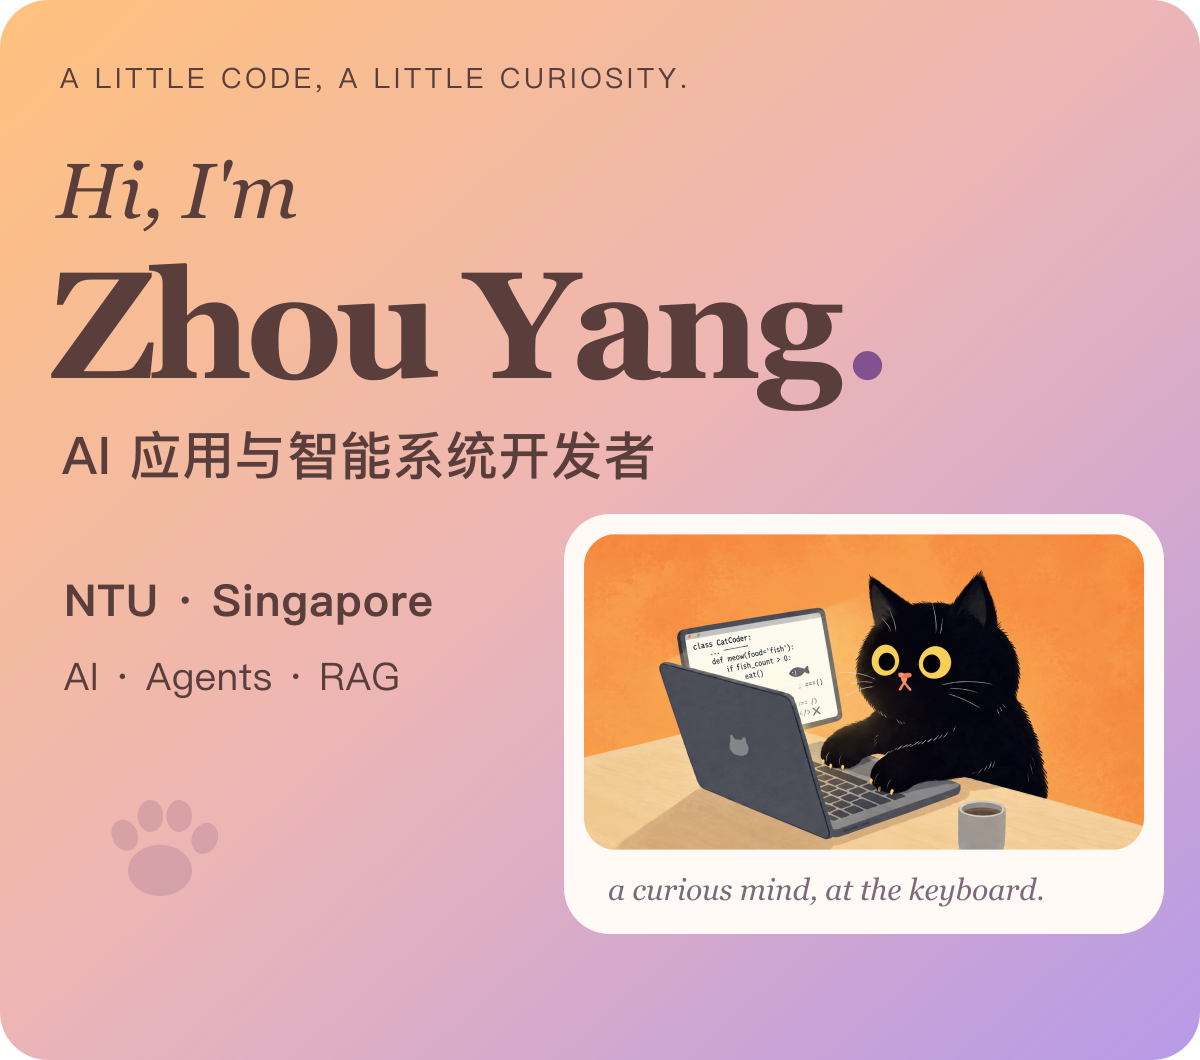
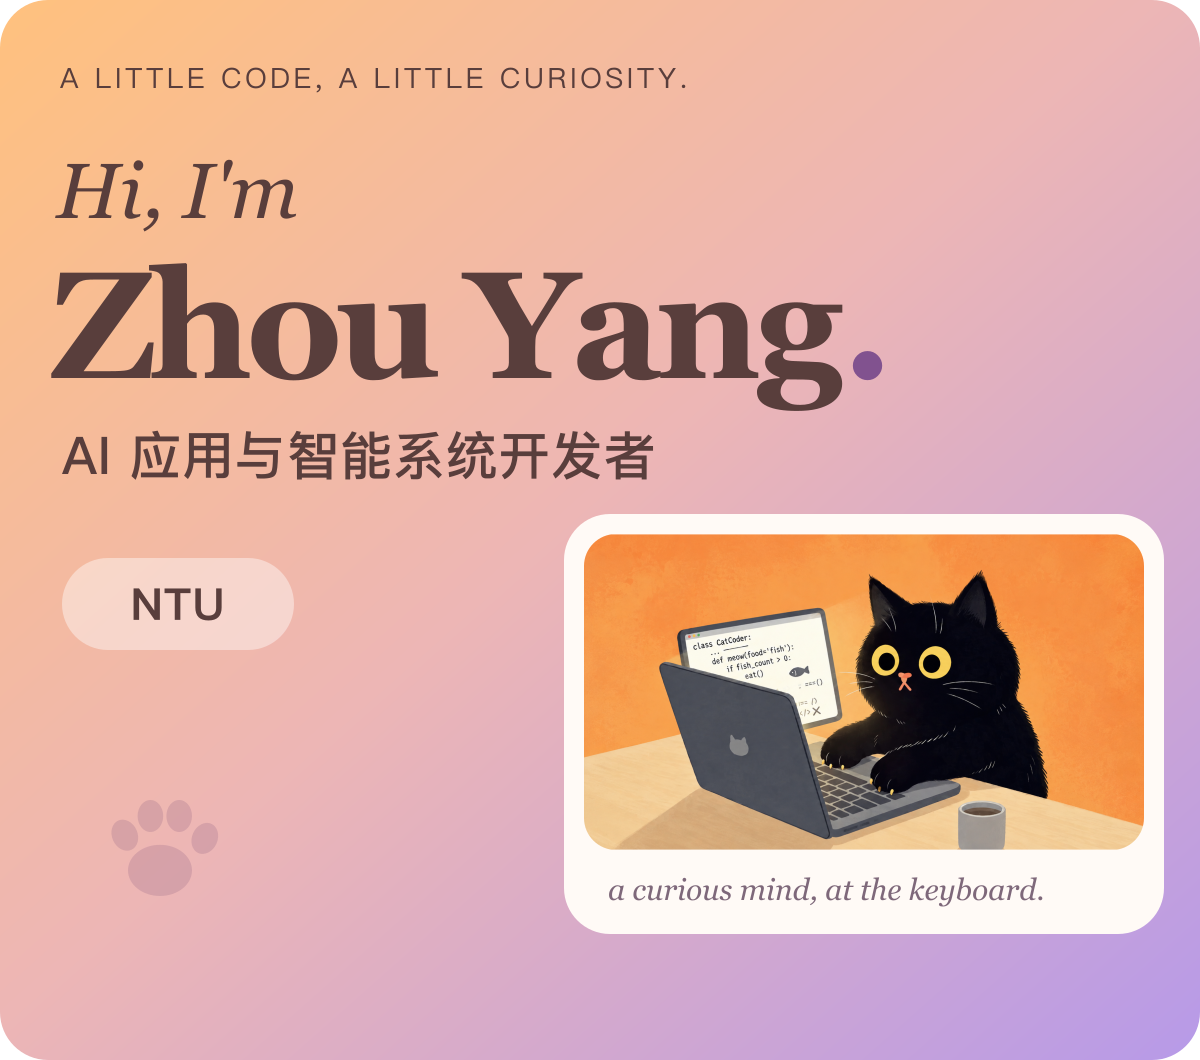
Show DeerFlow Contributor identity and simplify centered NTU badge

Changed region(s): [[0.0308, 0.5292, 0.37, 0.6538]]

diff --git a/README.md b/README.md
@@ -1,7 +1,7 @@
 <a href="https://zhouyang-lab.pages.dev/">
   <picture>
     <source media="(max-width: 600px)" srcset="./assets/hero-mobile.png" />
-    <img src="./assets/hero.png" width="100%" alt="Hi, I'm Zhou Yang — AI 应用与智能系统开发者. NTU, Singapore. Warm orange and lavender with the black cat from my personal website." />
+    <img src="./assets/hero.png" width="100%" alt="Hi, I'm Zhou Yang — AI 应用与智能系统开发者. NTU. Warm orange and lavender with the black cat from my personal website." />
   </picture>
 </a>
 
@@ -20,7 +20,7 @@ Student at **Nanyang Technological University**, Singapore. Exploring AI through
 <a href="https://github.com/bytedance/deer-flow/pull/7031">
   <picture>
     <source media="(max-width: 600px)" srcset="./assets/deerflow-contribution-mobile.svg" />
-    <img src="./assets/deerflow-contribution.svg" width="100%" alt="DeerFlow: contributed PR #7031, merged on 18 October 2026. 84k+ GitHub stars belong to the upstream bytedance/deer-flow project, checked on that date." />
+    <img src="./assets/deerflow-contribution.svg" width="100%" alt="DeerFlow Contributor: PR #7031, merged on 18 October 2026. 84k+ GitHub stars belong to the upstream bytedance/deer-flow project, checked on that date." />
   </picture>
 </a>
 
@@ -28,7 +28,7 @@ Student at **Nanyang Technological University**, Singapore. Exploring AI through
 
 <a href="https://github.com/bytedance/deer-flow/stargazers"><img src="https://img.shields.io/badge/DeerFlow%20upstream%20stars-84k%2B-e9ad52?style=flat-square&amp;labelColor=9b78b0" alt="84k+ upstream GitHub stars for bytedance/deer-flow" /></a>
 
-**[DeerFlow 开源贡献 · PR #7031 已合并](https://github.com/bytedance/deer-flow/pull/7031)**
+**[DeerFlow Contributor · 开源贡献者 · PR #7031 已合并](https://github.com/bytedance/deer-flow/pull/7031)**
 
 <sub>84k+ refers to the upstream repository's GitHub stars, checked on 18 Oct 2026.</sub>
 
